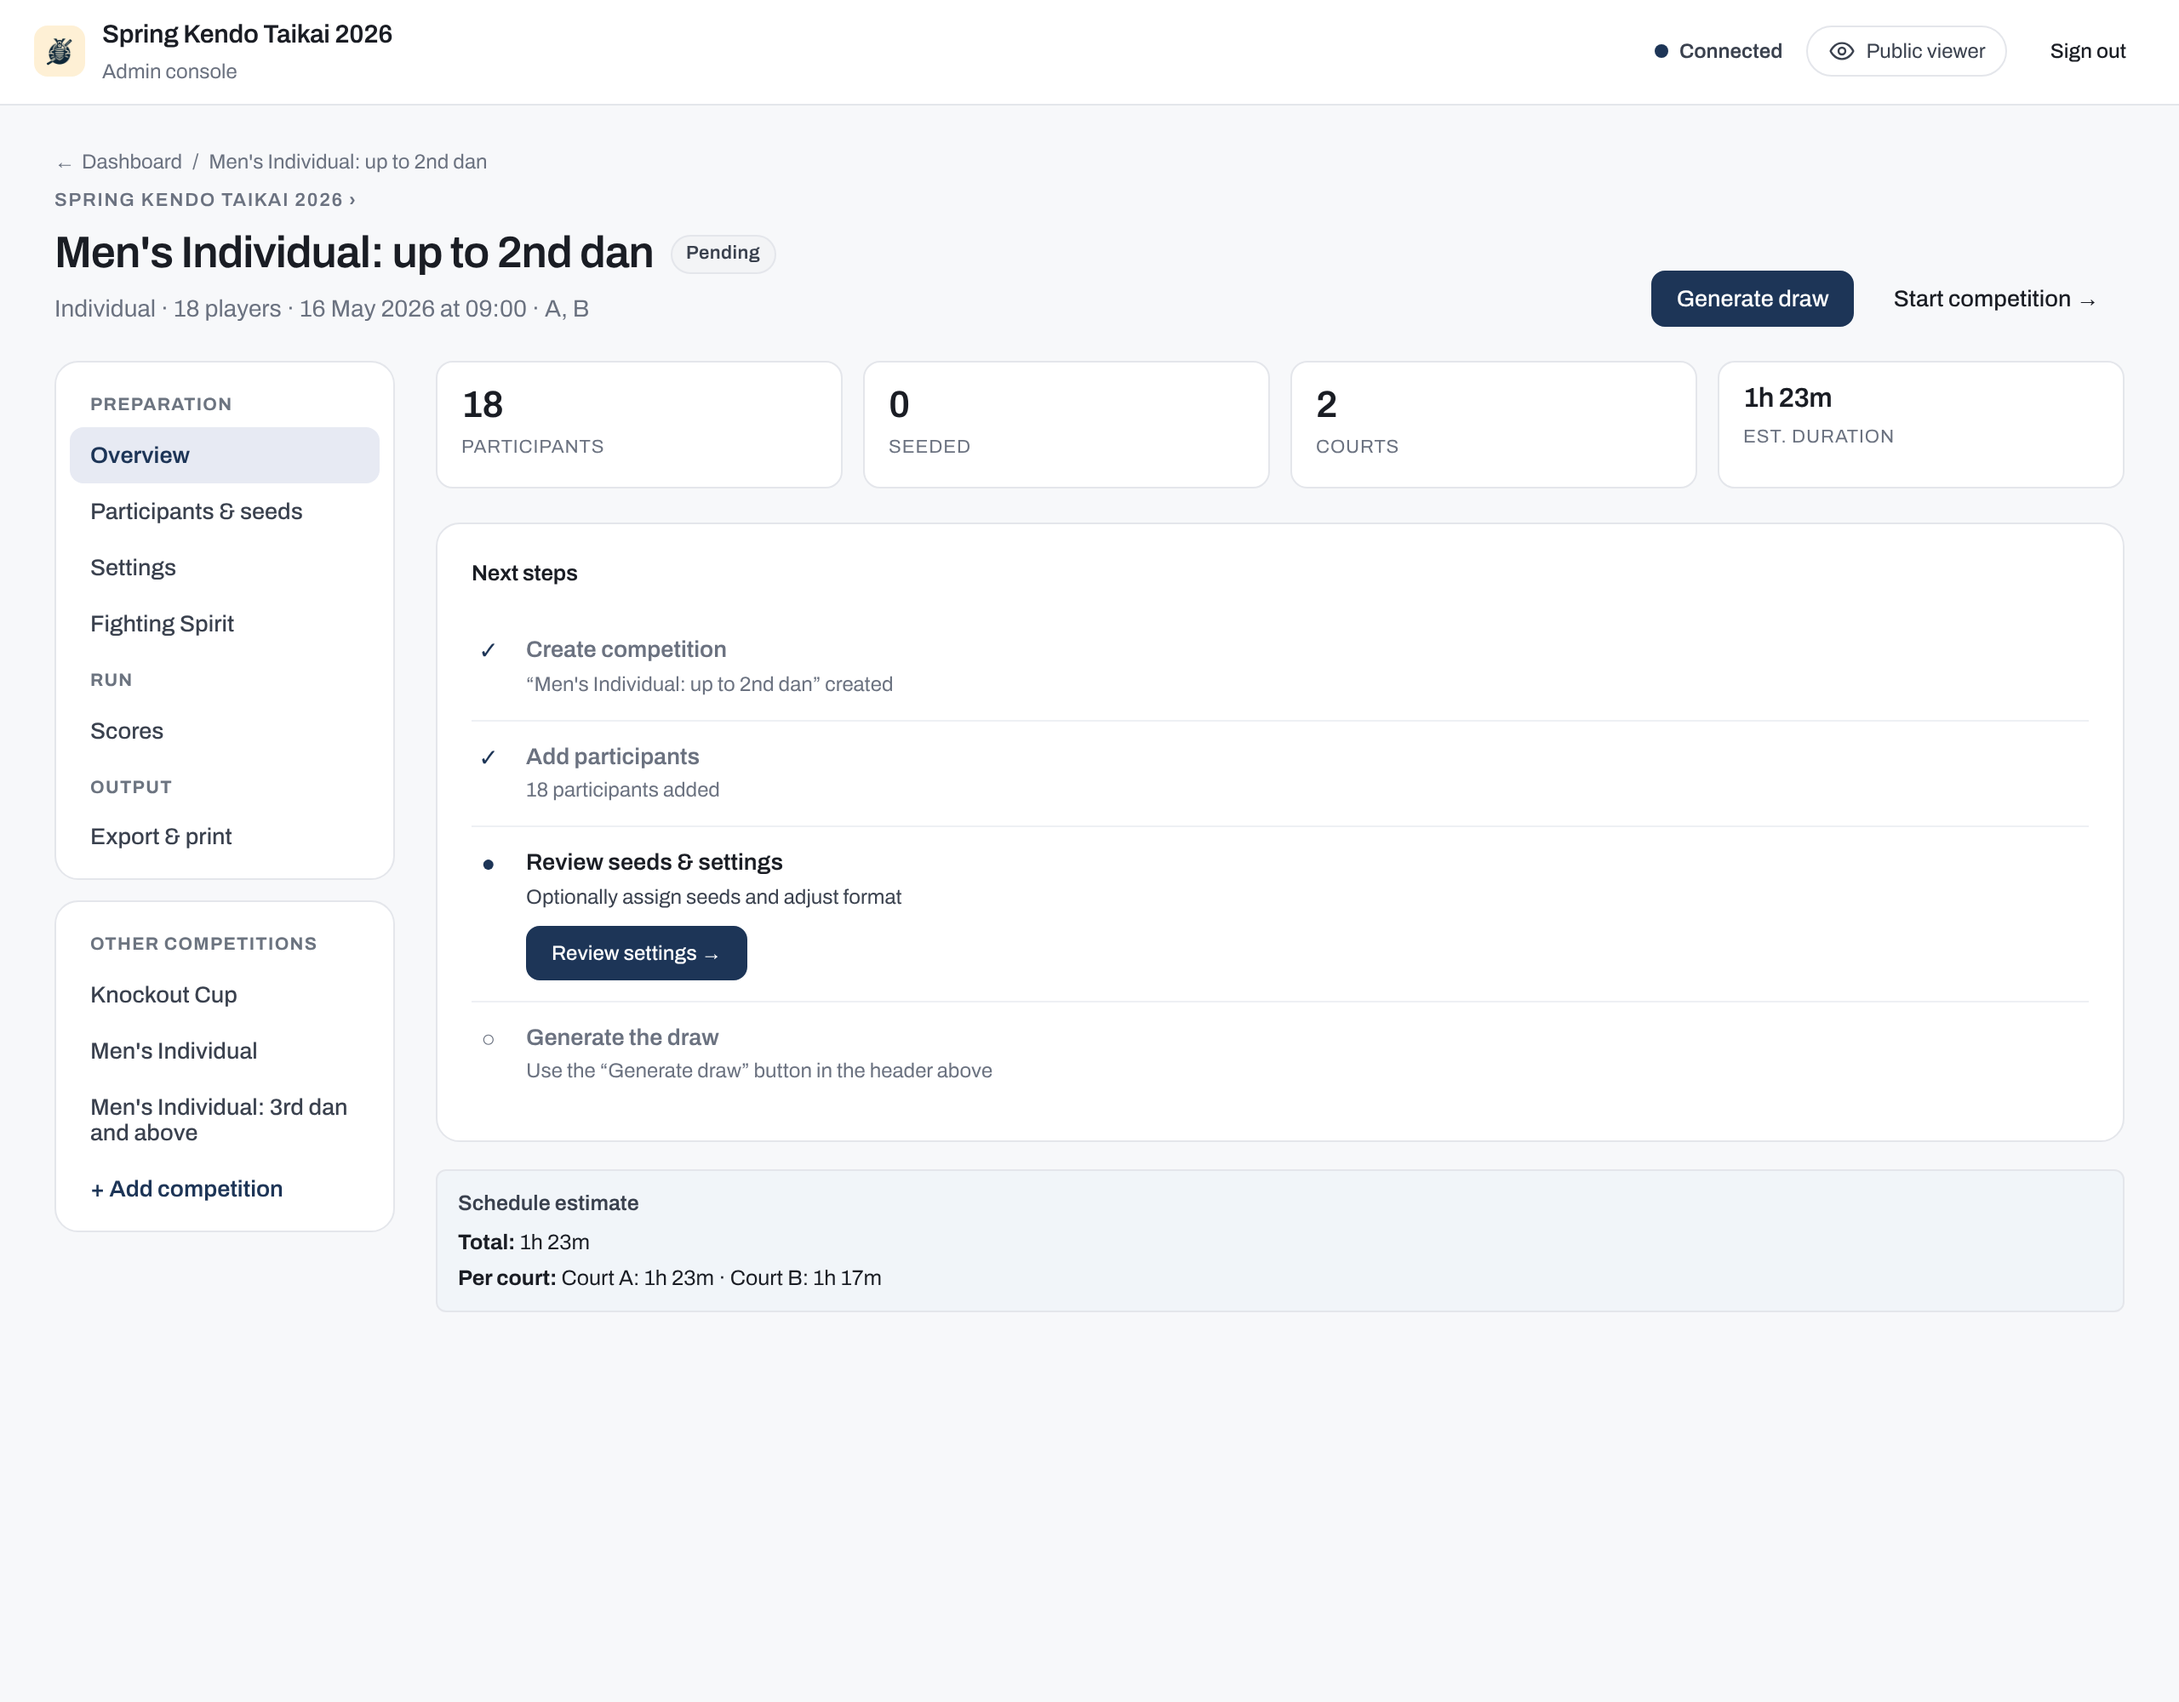
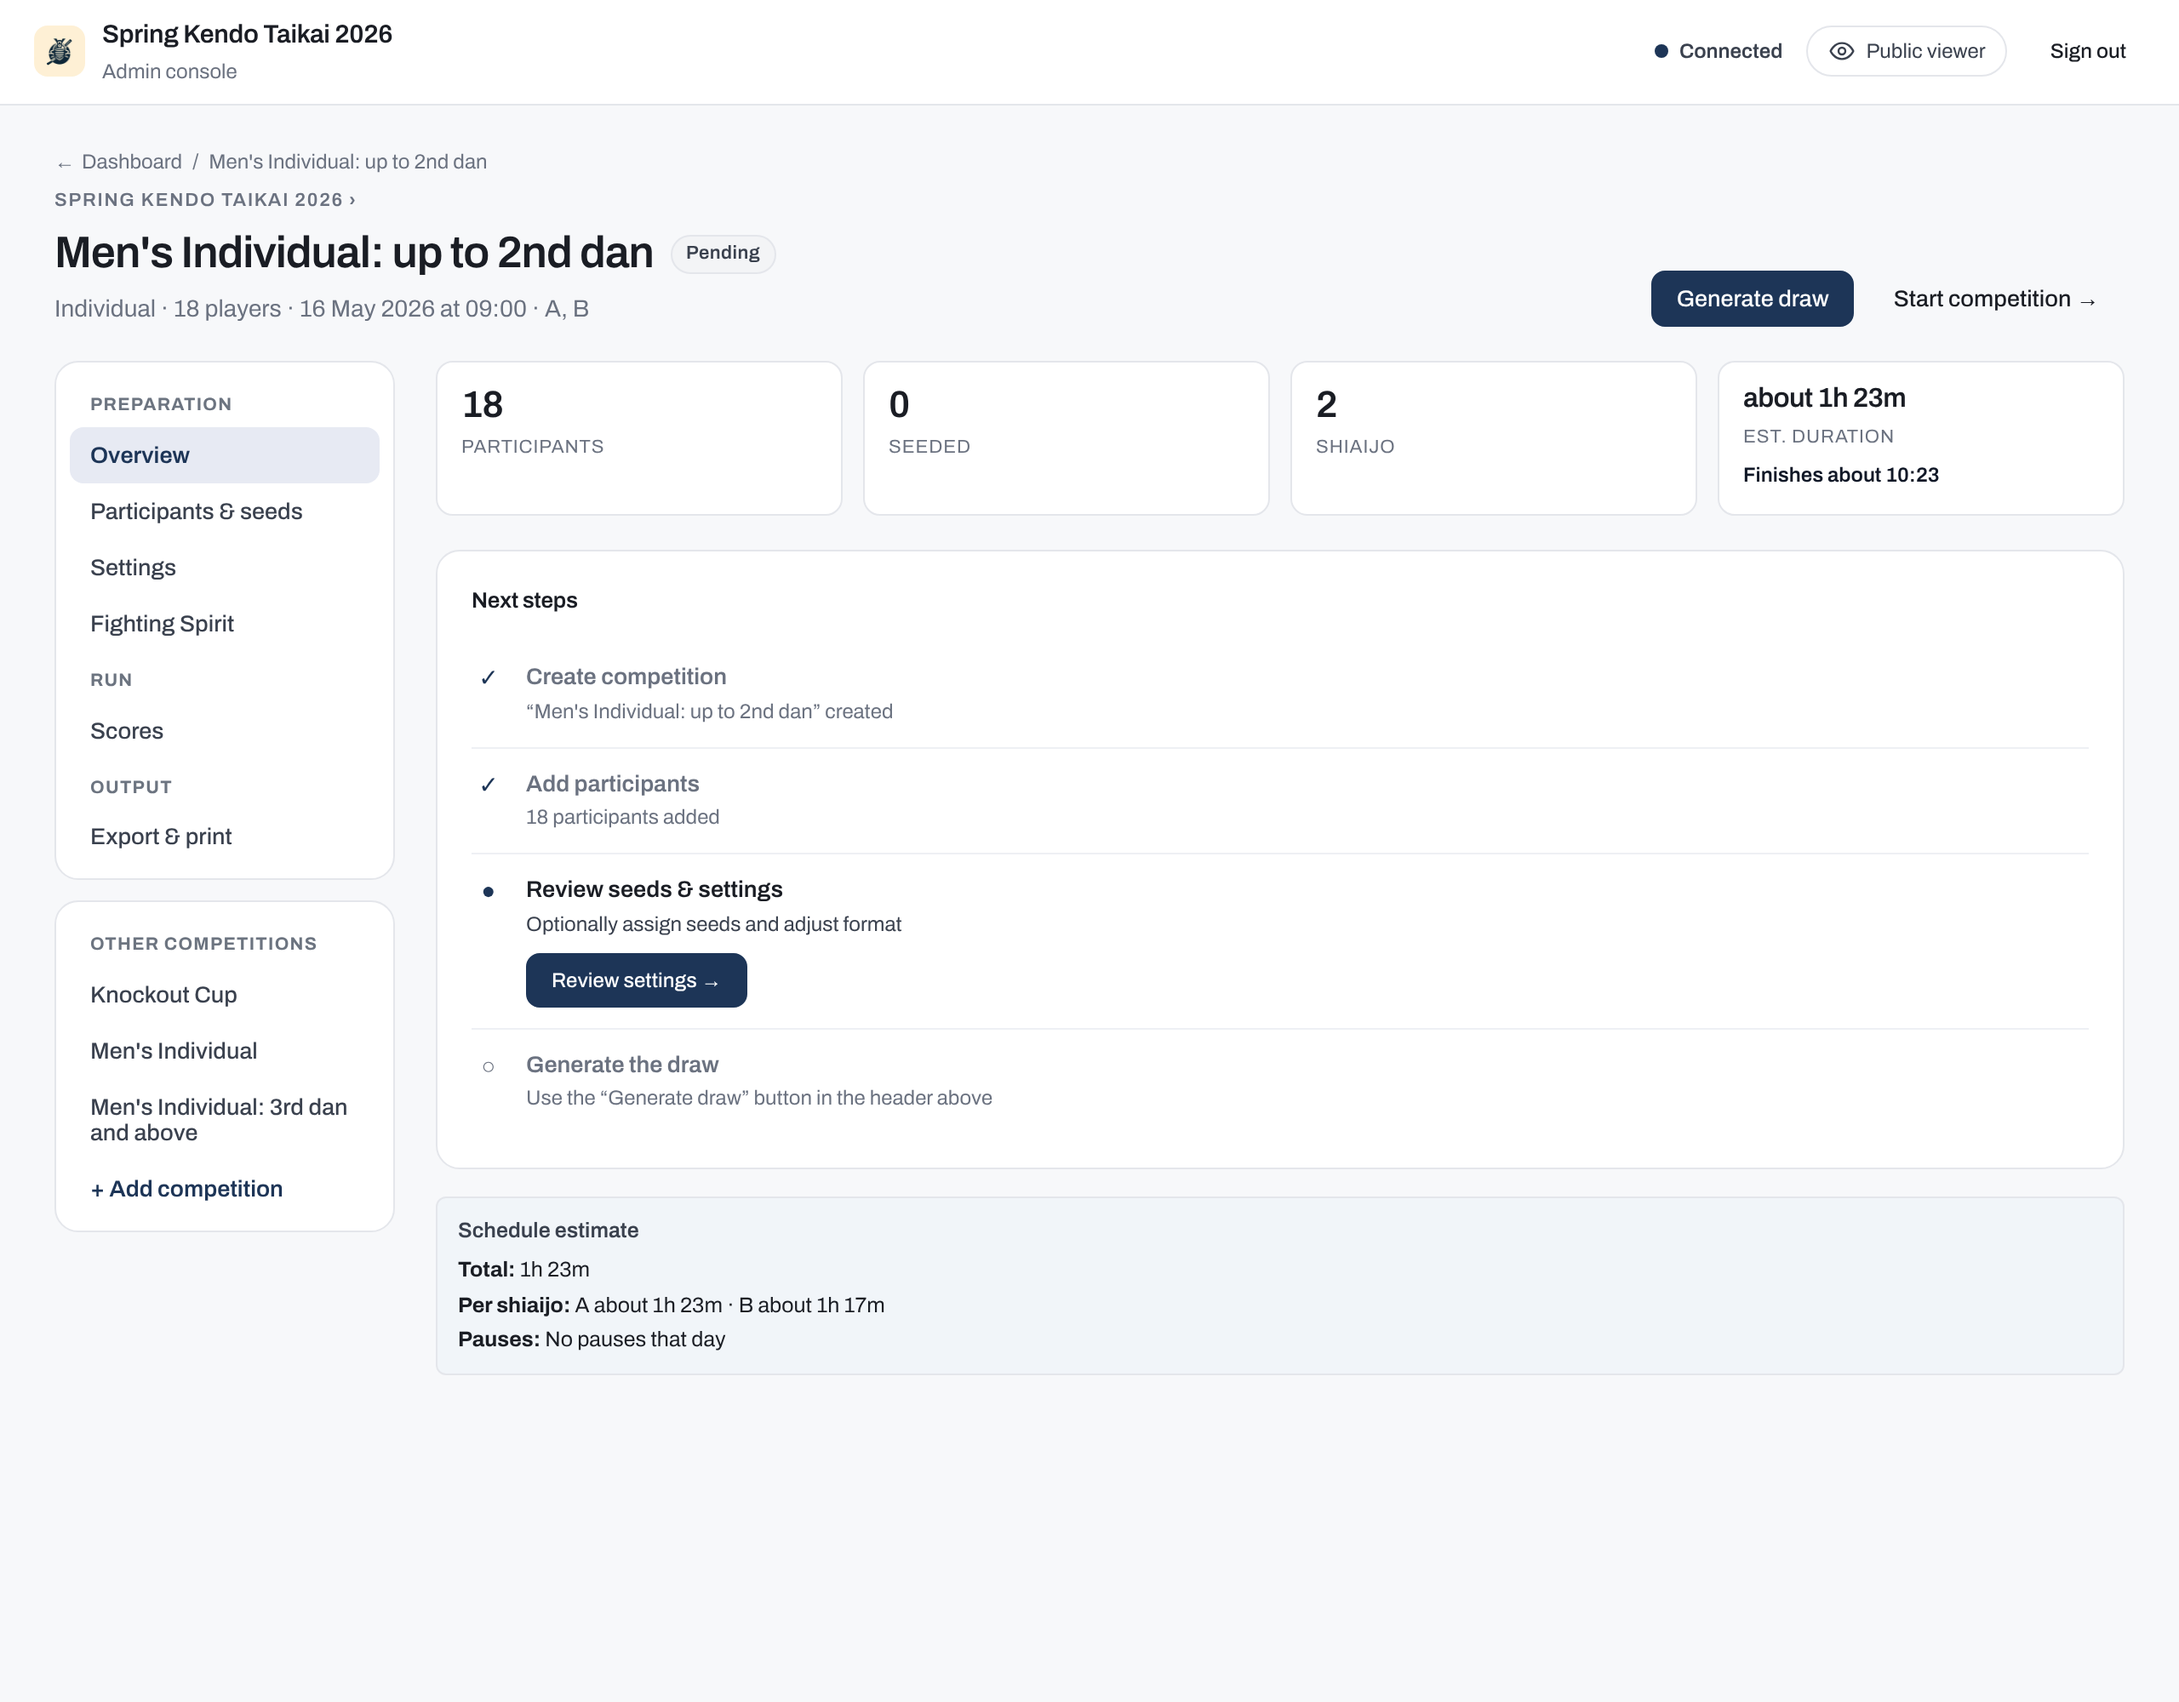
docs(mp-lw5p): show the calendar, the move, the pauses and the estimates
Six new captures from the screenshot harness go on the pages that describe
them, and the three captures this change altered are recaptured. The create
form's capture now scrolls the live estimate into view, and the pause
capture frames the Schedule blocks card instead of the whole page.

diff --git a/docs/user-guide/organisers/run-tournament.md b/docs/user-guide/organisers/run-tournament.md
@@ -318,6 +318,8 @@ The competition **Overview** has an **Est. duration** tile, for example *about 4
 
 The tile also says which number of participants the estimate used, for example *For 40 expected participants (12 registered)*. While the competition is in setup, the estimate uses the [expected number](#expected-participants-and-the-estimate-on-a-new-competition) until more people have registered than that. When the competition uses check-in, the tile counts people who have checked in and says *checked in* instead of *registered*. Once the draw is made, the finish comes from the match times the draw gave, and the tile reads *For the 18 participants in the draw*.
 
+![The Overview of a competition in setup: the Est. duration tile reads about 1h 50m, finishes about 11:20, for 24 expected participants (0 registered), and the strip below lists the time for each shiai-jo and the opening ceremony and lunch pauses.](../../screenshots/mobile-overview-estimate.png)
+
 For a kachinuki (winner stays on) competition the number of bouts is not fixed, so the estimate is a range rather than a single figure. The tile is headed **Average est. duration** and a line under it reads, for example, *Best 2h 09m to worst 4h 28m*. Best is a clean sweep where one fighter wins every bout, worst is the longest run where each bout retires one fighter, and the average sits between them. Use the worst figure for planning the day and the average for a realistic finish time.
 
 ![The competition Overview for a kachinuki competition: the Average est. duration tile with the best to worst range and the finish time under it, and the strip of per-shiai-jo times and pauses below.](../../screenshots/kachinuki-estimate-range.png)
@@ -331,6 +333,8 @@ The **Schedule blocks** card on the tournament setup page lists the times when n
 - **Length**, how long the pause lasts.
 - **On**, which day it applies to, or **Every day**. This choice appears only for a tournament that lasts more than one day.
 
+![The Schedule blocks card of a one-day tournament with two pauses, Opening ceremony at 09:00 for 30m and Lunch at 12:30 for 1h, each with the times its matches stop, and the + Add a pause button.](../../screenshots/mobile-pause-editor.png)
+
 Every estimate and every new schedule works around the pauses. A match whose start time falls inside a pause moves to the end of that pause. A match that starts just before a pause is not shortened or moved, so it may run into the pause. Pauses that overlap count as one longer pause, and the row says so. A pause that ends after midnight is marked as such, and a pause that does not change any schedule (for example one that starts after the last match) is marked as not used. A competition that is already drawn keeps its match times when you add or change a pause, and the card names the competitions affected. To re-time one of them, use **Auto-schedule competition**, or [move the competition](#moving-a-competition-on-the-calendar), which re-times its matches too.
 
 A tournament saved by an earlier version is converted the first time the server starts. Its lunch break becomes a **Lunch** pause at 12:00 on every day. Its opening ceremony becomes an **Opening ceremony** pause on each day that has a competition, starting at the earliest start time of that day's competitions (09:00 for a competition with no start time). Its closing ceremony becomes a **Closing ceremony** pause with no start time, which the schedule ignores until you give it one under **Schedule blocks**. Competitions that are already drawn keep their match times. An estimate counts a closing ceremony only once that pause has a time, and only the first competition of a day waits for the opening ceremony.
@@ -341,9 +345,13 @@ The **Add competition** form has an **Expected participants** field (**Expected 
 
 While you fill in the form, a live estimate below the fields shows about how long the competition will take and when it finishes, using the format, the number of shiai-jo, the match durations and the tournament's pauses. It updates as you change the fields. If the finish falls after midnight, the estimate says so and suggests an earlier start or more shiai-jo. Once the draw is made, the finish comes from the draw itself and no longer from the estimate.
 
+![The bottom of the Add competition form: Expected participants set to 24, and the live estimate below it reading Finishes about 14:10, about 2h 50m, 24 pool matches and 15 knockout matches, the time for each shiai-jo, and the pauses that day.](../../screenshots/mobile-create-estimate.png)
+
 ### Competition calendar
 
 Open **Competition calendar** from the dashboard to see every competition on its day and shiai-jo, from its start time to its expected finish. A competition that is already drawn takes its times from the draw; one that is not drawn yet uses the estimate. When two competitions on the same shiai-jo overlap, both are marked, and an overlap on a day that is not on screen is listed above the calendar with a button to show that day. Click a competition to open it.
+
+![The competition calendar of a two-day tournament with shiai-jo A and B: the opening ceremony and lunch drawn as bands across each day, a drawn competition with its times from the draw, and two dotted estimate blocks that say how many entries they expect.](../../screenshots/mobile-calendar.png)
 
 A few notices can appear above the calendar:
 
@@ -356,9 +364,13 @@ A few notices can appear above the calendar:
 
 Drag a competition's block to another day or start time. On a touch screen, press and hold the block first, then drag. You can also use the block's **Move** button, or press **M** while the block is focused. The Move dialog lets you pick the day, the start time and the shiai-jo. Starts snap to 5 minutes, and a start that falls inside a pause moves to the end of that pause. A move that makes two competitions overlap on a shiai-jo is a warning, never a block. A competition that is running or completed cannot be moved, and its block says so. Pause times are drawn as bands across each day, and the time span in a block reads, for example, *09:30 to about 13:38* for an estimate or *14:15 to 16:02* for a draw. A block built from an expected number says so (*Estimate for 24 expected*).
 
+![The Move dialog for Women's Individual: the day, a start time of 11:00, shiai-jo A and B chosen, and the line Runs 11:00 to about 12:17, with Cancel and Move.](../../screenshots/mobile-calendar-move.png)
+
 A competition that is already drawn moves by day and start time only, and keeps its shiai-jo. Its matches move with it: each match gets the time the draw would give it at the new day and start, in the same order, and nothing else about the pools, the bracket or the competitor numbers changes. Before you confirm, the message shows each shiai-jo's old and new times. If some matches no longer have the times a fresh draw would give them (a time you set by hand, a pause you added or changed, or another competition you moved), the message says so and those matches get new times too. If no match would change its time, the move is saved without asking. The competition and its matches are saved together, or not at all. Changing the **Date** or **Start time** in the competition's **Settings** does the same, with the same message before you save.
 
 After a move, a line saying **Moved just now** with an **Undo** button stays above the calendar until you move something else or leave the page. Undo puts the settings back and, for a drawn competition, every match back to its exact earlier time. If anything changed in the meantime, such as a match time you edited, Undo says "Changed since the move; Undo not applied." and changes nothing.
+
+![The calendar after the move: the line Moved just now: Women's Individual to Sat 16 May (day 1) at 11:00 with its Undo button, and the block in its new place before lunch.](../../screenshots/mobile-calendar-moved.png)
 
 If someone else changed the competition after the calendar loaded (another screen, another device or its **Settings** page), the move is refused with "This competition changed, reload it" and nothing is moved. The **Settings** page does the same: if the competition changed somewhere else after you opened it, **Save** is refused, the message lists what you had changed, and you click **Reload** to see the current settings and make your change again.
 
